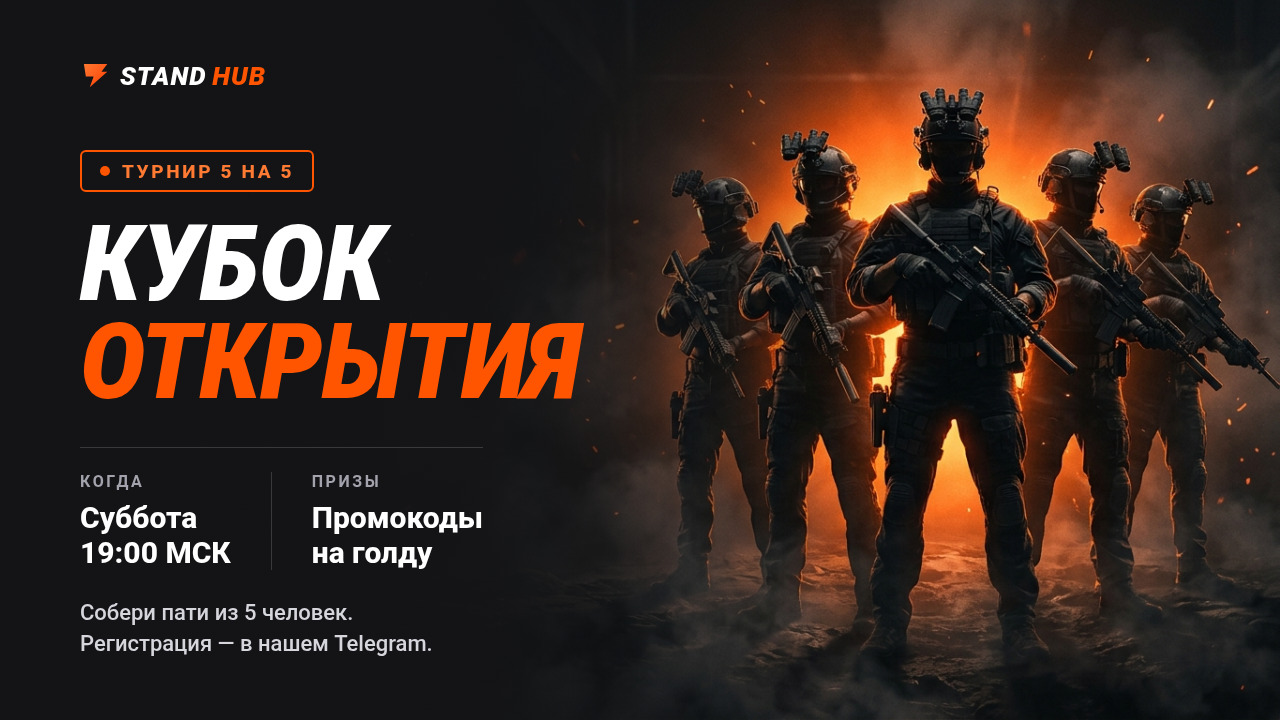
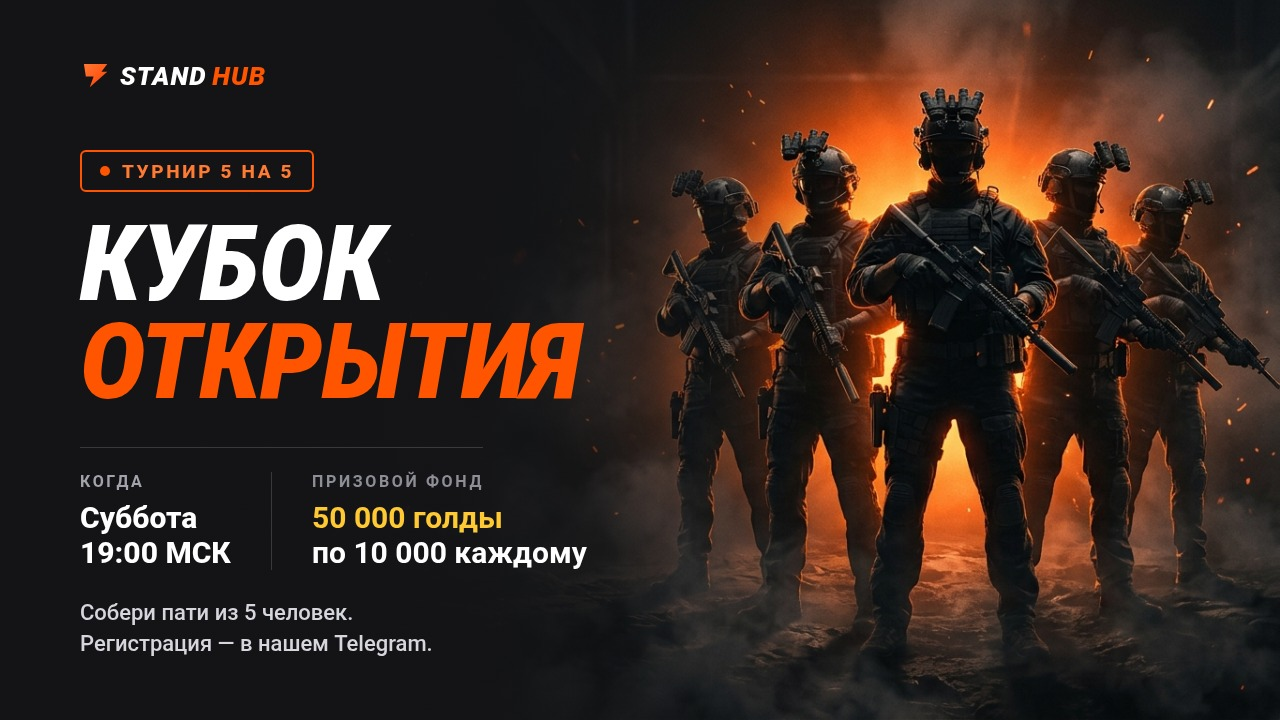
v1.11.2: призовой фонд турнира — 50 000 голды, по 10 000 каждому из команды-победителя: на плашке, в карточке «Кубки», в боте и анонсе; поле «Призовой фонд» в админке; картинка анонса с фондом

diff --git a/public/index.html b/public/index.html
@@ -685,6 +685,11 @@ body::after{width:520px;height:520px;left:140px;bottom:-220px;background:radial-
 .cup-my{display:flex;align-items:center;gap:8px;padding:10px 12px;border-radius:8px;background:rgba(63,207,106,.12);border:1px solid rgba(63,207,106,.4);font-size:14px}.cup-my .ic{color:var(--green);flex:none}
 .cup-bl{text-align:center;font-size:13px;color:var(--muted);text-decoration:underline}
 .cup-st{text-align:center;padding:10px 12px;border-radius:8px;background:rgba(255,77,77,.1);border:1px solid rgba(255,77,77,.35);font-weight:800;font-size:14px}
+.cup-r.has-f{min-width:340px}
+.cup-sts{display:grid;grid-template-columns:1fr 1fr;gap:10px}
+.cup-fund{border-color:rgba(255,200,0,.42);background:linear-gradient(180deg,rgba(255,200,0,.16),rgba(255,200,0,.05))}
+.cup-fund span{color:#e6c35c}.cup-fund b{color:var(--yellow);white-space:nowrap}.cup-fund small{font-size:14px;font-weight:800;color:#fff}
+.cup-win{color:#ffe08a}
 @media (max-width:760px){
  .cup{grid-template-columns:1fr;gap:14px;padding:18px 16px}
  .cup-ic{position:absolute;right:14px;top:14px;width:54px;height:54px;box-shadow:0 0 0 5px rgba(255,200,0,.12)}.cup-ic .ic{width:30px;height:30px}
@@ -693,6 +698,7 @@ body::after{width:520px;height:520px;left:140px;bottom:-220px;background:radial-
  .cup-b p{font-size:14px;margin-top:8px}
  .cup-r{min-width:0;gap:8px}
  .cup-cd{display:flex;align-items:baseline;justify-content:center;gap:10px;padding:7px 12px}.cup-cd b{font-size:20px}
+ .cup-r.has-f{min-width:0}.cup-sts{gap:8px}.cup-sts .cup-cd{display:block;padding:7px 8px}
  .cup-lob .cup-b p{display:none}
 }
 /* админка: турнир */
@@ -707,6 +713,7 @@ body::after{width:520px;height:520px;left:140px;bottom:-220px;background:radial-
 .adm-cfg input[type=date]:focus,.adm-cfg input[type=time]:focus,.adm-cfg input[type=password]:focus{border-color:var(--orange);outline:none;box-shadow:0 0 0 3px rgba(255,85,0,.15)}
 .adm-cfg label.w2{flex:1 1 260px}.adm-cfg label.w3{flex:1 1 100%}.adm-cfg label.w2 input,.adm-cfg label.w3 input{width:100%}
 .adm-sub2{font-size:13px;text-transform:uppercase;font-weight:800;color:var(--muted);letter-spacing:.04em;margin:4px 0 -6px}
+.adm-fh{margin-top:-6px;font-size:13px;color:var(--muted)}.adm-fh b{color:var(--yellow)}.adm-fh .ic{width:16px;height:16px;vertical-align:-3px;margin-right:6px;color:var(--yellow)}
 .adm-cupb{display:flex;gap:10px;flex-wrap:wrap}.adm-cupb .ic{width:16px;height:16px}
 .adm-pic{display:flex;gap:16px;align-items:center;padding:12px;border:1px solid var(--line);border-radius:10px;background:var(--bg2)}
 .adm-pim{flex:none;display:block;width:220px;border-radius:8px;overflow:hidden;border:1px solid var(--line)}.adm-pim img{display:block;width:100%;aspect-ratio:16/9;object-fit:cover;background:#111}
@@ -1041,7 +1048,7 @@ function toast(t){const e=document.getElementById("toast");e.textContent=t;e.cla
 function needAuth(){if(!S.user){location.hash="#/login";toast("Войдите, чтобы продолжить");return true}return false}
 function empty(title,text,btn){return `<div class="empty"><div class="empty-ic">${ic("crown")}</div><b>${title}</b><p class="muted">${text}</p>${btn||""}</div>`}
 /* ===== Анимации ===== */
-const APP_V="1.11.1";
+const APP_V="1.11.2";
 // анимации включены всегда; выключить можно кнопкой «Анимации» (меню слева / низ главной)
 const RM=()=>document.documentElement.classList.contains("no-motion");
 function paintMotion(){document.querySelectorAll("[data-motion] b").forEach(b=>b.textContent=RM()?"выкл":"вкл")}
@@ -1938,21 +1945,28 @@ function cupBanner(){const c=S.cup,ph=cupPh();if(ph==="off")return "";const link
    :ph==="open"?(link?`<a class="btn btn-o btn-lg cup-btn" href="${link}" target="_blank" rel="noopener">${ic("tg")}Регистрация в Telegram</a>`:`<span class="btn btn-g btn-lg cup-btn" aria-disabled="true">Регистрация скоро</span>`)
    :live?(c.channel?`<a class="btn btn-o btn-lg cup-btn" href="https://t.me/${encodeURIComponent(c.channel)}" target="_blank" rel="noopener">${ic("tg")}Следить в Telegram</a>`:"")
    :`<span class="cup-st">${ph==="full"?"Все места заняты":"Регистрация закрыта"}</span>`;
+  const cd=live?`<div class="cup-cd"><span>Статус</span><b>Турнир идёт</b></div>`:`<div class="cup-cd"><span>До старта</span><b data-cd="${c.start}">${cdStr(c.start-Date.now()-S.skew)}</b></div>`;
+  const fund=c.fund>0?`<div class="cup-cd cup-fund"><span>Призовой фонд</span><b>${fmt(c.fund)}<small> голды</small></b></div>`:"";
   return `<section class="card cup${live?" live":""}" aria-label="Турнир ${esc(c.title)}"><div class="cup-ic">${ic("trophy")}</div>
    <div class="cup-b">${live?`<span class="tag live">Идёт сейчас</span>`:`<span class="tag">Турнир · 5 на 5</span>`}<h2>${esc(c.title)}</h2>
-    <div class="cup-i"><span>${ic("cal")}${esc(mskWhen(c.start))}</span><span>${ic("gift")}Призы — ${esc(lc1(c.prize))}</span>${c.left!=null&&ph==="open"?`<span class="cup-left">Осталось ${c.left} ${plr(c.left,"место","места","мест")}</span>`:""}</div>
+    <div class="cup-i"><span>${ic("cal")}${esc(mskWhen(c.start))}</span>${cupPrizes(c)}${c.left!=null&&ph==="open"?`<span class="cup-left">Осталось ${c.left} ${plr(c.left,"место","места","мест")}</span>`:""}</div>
     <p>${esc(c.desc)}</p></div>
-   <div class="cup-r">${live?`<div class="cup-cd"><span>Статус</span><b>Турнир идёт</b></div>`:`<div class="cup-cd"><span>До старта</span><b data-cd="${c.start}">${cdStr(c.start-Date.now()-S.skew)}</b></div>`}${act}</div></section>`}
+   <div class="cup-r${fund?" has-f":""}">${fund?`<div class="cup-sts">${fund}${cd}</div>`:cd}${act}</div></section>`}
+// призы на плашке: доля каждого победителя из призового фонда и «другие призы»
+function cupPrizes(c){const o=[];if(c.fund>0)o.push(`<span class="cup-win">${ic("crown")}Победителям — по ${fmt(c.share)} голды каждому</span>`);
+  if(c.prize)o.push(`<span>${ic("gift")}${c.fund>0?"Также: ":"Призы — "}${esc(lc1(c.prize))}</span>`);return o.join("")}
 // карточка «Кубки» на главной: пока турнира нет — «Скоро»
 function cupCardIn(){const c=S.cup,ph=cupPh(),link=cupLink();
   if(ph==="off")return `<span class="tag">Скоро</span><h3>Кубки</h3><p class="muted">Ежедневные и еженедельные кубки по расписанию с наградами за места.</p><span class="btn btn-g">Скоро</span>`;
   const b=c.my?`<span class="btn btn-g">Вы участвуете</span>`:ph==="open"&&link?`<a class="btn btn-o" href="${link}" target="_blank" rel="noopener">Участвовать</a>`:`<span class="btn btn-g">${ph==="live"?"Идёт сейчас":ph==="full"?"Мест нет":ph==="open"?"Регистрация скоро":"Регистрация закрыта"}</span>`;
-  return `<span class="tag live">${ph==="live"?"Идёт сейчас":ph==="open"?"Регистрация":"Скоро старт"}</span><h3>Кубки</h3><p class="muted">${esc(c.title)} — ${esc(mskWhen(c.start,true))}. Турнир 5 на 5, призы — ${esc(lc1(c.prize))}.</p>${b}`}
+  return `<span class="tag live">${ph==="live"?"Идёт сейчас":ph==="open"?"Регистрация":"Скоро старт"}</span><h3>Кубки</h3><p class="muted">${esc(c.title)} — ${esc(mskWhen(c.start,true))}. Турнир 5 на 5, ${c.fund>0?`призовой фонд — ${fmt(c.fund)} голды`:`призы — ${esc(lc1(c.prize))}`}.</p>${b}`}
 function paintCup(){document.querySelectorAll("[data-cupb]").forEach(el=>{const h=cupBanner();if(el._h!==h){el._h=h;el.innerHTML=h}});document.querySelectorAll("[data-cupc]").forEach(el=>{const h=cupCardIn();if(el._h!==h){el._h=h;el.innerHTML=h}})}
 
 /* ===== Админка: турнир ===== */
 function mskParts(t){const d=new Date(t+MSK_OFF);return [`${d.getUTCFullYear()}-${p2(d.getUTCMonth()+1)}-${p2(d.getUTCDate())}`,`${p2(d.getUTCHours())}:${p2(d.getUTCMinutes())}`]}
 function mskTs(dt,tm){const a=/^(\d{4})-(\d{2})-(\d{2})$/.exec(dt||""),b=/^(\d{1,2}):(\d{2})/.exec(tm||"");return a&&b?Date.UTC(+a[1],+a[2]-1,+a[3],+b[1],+b[2])-MSK_OFF:NaN}
+// подсказка под призовым фондом: сколько получит каждый из команды-победителя
+function fundHint(f,t=5){return f>0?`${ic("crown")}Весь фонд забирает команда-победитель — по <b>${fmt(Math.floor(f/t))} голды</b> каждому из ${t} игроков`:`Без призового фонда — на сайте и в Telegram будут только «Другие призы»`}
 const PH_T={open:"Регистрация открыта",closed:"Регистрация закрыта",full:"Все места заняты",live:"Турнир идёт",off:"Плашка скрыта"};
 async function admCup(){const el=document.getElementById("adm");if(!el)return;
   try{paintAdmCup(await api("/api/admin/cup"))}catch(e){el.innerHTML=`<div class="card">${empty("Не удалось загрузить турнир",esc(e.message))}</div>`}}
@@ -1999,8 +2013,10 @@ function paintAdmCup(d){const el=document.getElementById("adm");if(!el)return;S.
     <div class="adm-cfg"><label class="w2">Название<input type="text" data-c="title" maxlength="40" value="${esc(c.title)}"></label>
      <label>Дата старта<input type="date" data-c="date" value="${dd}"></label><label>Время, МСК<input type="time" data-c="time" value="${tt}"></label>
      <label>Мест, команд<input type="number" inputmode="numeric" min="2" max="256" step="1" data-c="max" value="${c.max}"></label>
-     <label class="w2">Призы<input type="text" data-c="prize" maxlength="80" value="${esc(c.prize)}"></label>
      <label class="w3">Описание<input type="text" data-c="desc" maxlength="200" value="${esc(c.desc)}"></label></div>
+    <div class="adm-cfg"><label>Призовой фонд, голды<input type="number" inputmode="numeric" min="0" max="10000000" step="1000" data-c="fund" value="${c.fund||0}"></label>
+     <label class="w2">Другие призы — необязательно<input type="text" data-c="prize" maxlength="80" value="${esc(c.prize)}" placeholder="Например: 2-е место — 5 000 голды"></label></div>
+    <p class="adm-fh" data-cfh>${fundHint(c.fund,d.team)}</p>
     <h4 class="adm-sub2">Telegram-канал для анонсов</h4>
     <p class="muted" style="font-size:13px;margin:0">${d.bot?`Добавьте <b style="color:#fff">@${esc(d.bot)}</b> в администраторы канала с правом «Публикация сообщений» — кнопкой ниже или вручную: канал → «Администраторы» → «Добавить администратора». Кнопка «Опубликовать анонс» отправит в канал пост о турнире с картинкой и кнопкой регистрации.`:"Сначала подключите бота регистрации — он будет публиковать посты в канал."}</p>
     ${d.bot?`<div class="adm-cupb"><a class="btn btn-g btn-sm" href="https://t.me/${encodeURIComponent(d.bot)}?startchannel&admin=post_messages" target="_blank" rel="noopener" data-caddch>${ic("tg")}Добавить бота в канал</a></div>`:""}
@@ -2014,7 +2030,8 @@ function paintAdmCup(d){const el=document.getElementById("adm");if(!el)return;S.
   const g=k=>el.querySelector(`[data-c="${k}"]`);
   const on=el.querySelector("[data-cbon]");if(on)on.onclick=e=>{const v=el.querySelector("#cupTok").value.trim();if(!v){toast("Вставьте токен от @BotFather");return}cupPost({act:"bot",token:v},e.currentTarget,r=>"Бот подключён: @"+r.bot,true)};
   const off=el.querySelector("[data-cboff]");if(off)off.onclick=e=>{if(!confirm("Отключить бота регистрации? Кнопка «Регистрация в Telegram» на плашке перестанет работать."))return;cupPost({act:"botOff"},e.currentTarget,()=>"Бот отключён",true)};
-  el.querySelector("[data-csave]").onclick=e=>cupPost({act:"cfg",on:g("on").checked,reg:g("reg").checked,title:g("title").value,start:mskTs(g("date").value,g("time").value),max:Number(g("max").value),prize:g("prize").value,desc:g("desc").value,channel:g("channel").value,chNew:g("chNew").checked,pic:g("pic").checked},e.currentTarget,()=>"Сохранено",true);
+  g("fund").oninput=()=>{el.querySelector("[data-cfh]").innerHTML=fundHint(Number(g("fund").value)||0,d.team)};
+  el.querySelector("[data-csave]").onclick=e=>cupPost({act:"cfg",on:g("on").checked,reg:g("reg").checked,title:g("title").value,start:mskTs(g("date").value,g("time").value),max:Number(g("max").value),fund:g("fund").value===""?0:Number(g("fund").value),prize:g("prize").value,desc:g("desc").value,channel:g("channel").value,chNew:g("chNew").checked,pic:g("pic").checked},e.currentTarget,()=>"Сохранено",true);
   el.querySelector("[data-cpost]").onclick=e=>cupPost({act:"post",channel:g("channel").value},e.currentTarget,r=>"Анонс опубликован в "+r.channel+(r.noPic?" — без картинки: Telegram её не принял":""));
   el.querySelector("[data-ccopy]").onclick=()=>copyTxt(cupListTxt(S.admCup),"Список команд скопирован");
   el.querySelector("[data-cclear]").onclick=e=>{const n=S.admCup.teams.length;if(!confirm(`Удалить все команды (${n}) из списка? Игрокам ничего не придёт — обычно это нужно перед новым турниром.`))return;cupPost({act:"clear"},e.currentTarget,r=>`Список очищен (${r.n})`)};

diff --git a/cup.js b/cup.js
@@ -18,6 +18,8 @@ const pad = n => String(n).padStart(2, '0');
 const clean = s => String(s == null ? '' : s).replace(/\s+/g, ' ').trim();
 const lc = s => (/^[А-ЯЁA-Z][а-яёa-z]/.test(s) ? s[0].toLowerCase() + s.slice(1) : s); // «Промокоды…» → «промокоды…» посреди фразы
 const dot = s => (/[.!?…]$/.test(s) ? s : s + '.');
+const num = n => String(n).replace(/\B(?=(\d{3})+(?!\d))/g, '\u00a0'); // 50000 → «50 000» (неразрывный пробел)
+const FUND_MAX = 10000000;
 const plural = (n, a, b, c) => { const m = n % 10, h = n % 100; return m === 1 && h !== 11 ? a : m >= 2 && m <= 4 && (h < 12 || h > 14) ? b : c; };
 // ближайшая суббота, 19:00 по Москве
 function nextSat(now = Date.now()) {
@@ -40,7 +42,7 @@ const cleanCh = s => {
 const sleep = ms => new Promise(r => setTimeout(r, ms));
 const fs = require('fs'), path = require('path');
 // картинка анонса по умолчанию — «Кубок открытия» 1280×720; админ может загрузить свою
-const DEF_IMG = path.join(__dirname, 'assets', 'cup-open.jpg'), DEF_V = 'd1';
+const DEF_IMG = path.join(__dirname, 'assets', 'cup-open.jpg'), DEF_V = 'd2';
 let defBuf = null;
 const defImg = () => { if (!defBuf) { try { defBuf = fs.readFileSync(DEF_IMG); } catch { defBuf = Buffer.alloc(0); } } return defBuf; };
 // ошибки доступа к каналу — с ними картинку не обойти, публиковать текстом бесполезно
@@ -48,10 +50,19 @@ const ACCESS_ERR = /chat not found|rights|not a member|forbidden|administrator|a
 
 module.exports = function ({ db, save, sendTo, sendAll, tell, alertAdmins, escH, siteUrl, partyOf, mainBot = () => null, envToken = '', mainToken = '' }) {
   const C = db.cup = db.cup || {};
-  C.cfg = { on: true, reg: true, title: 'Кубок открытия', start: nextSat(), prize: 'Промокоды на голду', desc: 'Собери пати из пяти человек, регистрация в нашем Telegram', max: 16, channel: '', chNew: false, pic: true, ...(C.cfg || {}) };
+  const was = C.cfg;
+  // fund — призовой фонд в голде: его забирает команда-победитель, каждому из пятерых — fund / 5; prize — другие призы (необязательно)
+  C.cfg = { on: true, reg: true, title: 'Кубок открытия', start: nextSat(), fund: 50000, prize: '', desc: 'Собери пати из пяти человек, регистрация в нашем Telegram', max: 16, channel: '', chNew: false, pic: true, ...(C.cfg || {}) };
+  // v1.11.2: вместо «Промокоды на голду» — призовой фонд 50 000 голды (по 10 000 каждому из победителей)
+  if (was && was.fund === undefined && was.prize === 'Промокоды на голду') C.cfg.prize = '';
   C.teams = C.teams || [];
   C.seq = Math.max(C.seq || 0, ...C.teams.map(t => t.n || 0));
   const cfg = C.cfg;
+  const share = () => Math.floor(cfg.fund / TEAM);
+  // призы для Telegram: фонд и доля каждого победителя, плюс другие призы, если есть
+  const prizeTg = () => cfg.fund > 0
+    ? `💰 Призовой фонд: <b>${num(cfg.fund)} голды</b>\n🥇 Всё забирает команда-победитель — по ${num(share())} голды каждому игроку${cfg.prize ? `\n🎁 Также: ${escH(lc(cfg.prize))}` : ''}`
+    : `🎁 Призы: ${escH(lc(cfg.prize))}`;
   const user = id => db.users.find(u => u.id === id);
   const nick = id => (user(id) || { nick: '?' }).nick;
   const teamOf = uid => C.teams.find(t => t.members.includes(uid)) || null;
@@ -126,7 +137,7 @@ module.exports = function ({ db, save, sendTo, sendAll, tell, alertAdmins, escH,
   // ---------- состояние для сайта ----------
   const pubState = () => {
     const ph = phase(), left = cfg.max - C.teams.length;
-    return { type: 'cup', phase: ph, title: cfg.title, start: cfg.start, until: cfg.start + SHOW_AFTER, prize: cfg.prize, desc: cfg.desc, max: cfg.max,
+    return { type: 'cup', phase: ph, title: cfg.title, start: cfg.start, until: cfg.start + SHOW_AFTER, fund: cfg.fund, share: share(), prize: cfg.prize, desc: cfg.desc, max: cfg.max,
       left: ph === 'open' && left <= 3 ? left : null, bot, channel: cfg.channel && cfg.channel[0] === '@' ? cfg.channel.slice(1) : null };
   };
   const state = uid => { const t = uid ? teamOf(uid) : null; return { ...pubState(), my: t ? { name: t.name, cap: nick(t.cap), isCap: t.cap === uid, members: t.members.map(nick) } : null }; };
@@ -139,7 +150,7 @@ module.exports = function ({ db, save, sendTo, sendAll, tell, alertAdmins, escH,
     const ph = phase(), left = cfg.max - C.teams.length;
     const st = ph === 'open' ? `✅ Регистрация открыта${left <= 3 ? ` — осталось ${left} ${plural(left, 'место', 'места', 'мест')}` : ''}`
       : ph === 'full' ? '⛔ Все места уже заняты' : ph === 'closed' ? '⛔ Регистрация закрыта' : ph === 'live' ? '🔥 Турнир уже идёт' : '⛔ Сейчас турниров нет — следите за новостями';
-    return `🏆 <b>${escH(cfg.title)}</b> — турнир 5 на 5 в StandLeo\n\n📅 ${when(cfg.start)}\n🎁 Призы: ${escH(lc(cfg.prize))}\n👥 Мест: ${cfg.max} ${plural(cfg.max, 'команда', 'команды', 'команд')}\n\n${escH(dot(cfg.desc))}\n\n`
+    return `🏆 <b>${escH(cfg.title)}</b> — турнир 5 на 5 в StandLeo\n\n📅 ${when(cfg.start)}\n${prizeTg()}\n👥 Мест: ${cfg.max} ${plural(cfg.max, 'команда', 'команды', 'команд')}\n\n${escH(dot(cfg.desc))}\n\n`
       + `<b>Как зарегистрироваться</b>\n1. У каждого из пятерых — аккаунт на ${siteA('/#/register')}, подтверждённый в ${vb()}\n2. Капитан собирает на сайте пати из 5 человек: «Играть» → «Пригласить» (звать можно друзей с сайта)\n3. Капитан нажимает здесь «${B_REG}» и пишет название команды\n\n${st}`;
   };
   const info = chat => say(chat, infoText(), { reply_markup: KB });
@@ -236,7 +247,7 @@ module.exports = function ({ db, save, sendTo, sendAll, tell, alertAdmins, escH,
 
   // ---------- канал: анонс и новые команды ----------
   const regKb = () => ({ inline_keyboard: [[{ text: '📝 Зарегистрировать команду', url: `https://t.me/${bot}?start=cup` }], [{ text: '🌐 Сайт StandHub', url: siteUrl }]] });
-  const annText = () => `🏆 <b>${escH(cfg.title.toUpperCase())}</b>\nТурнир 5 на 5 в StandLeo\n\n📅 ${when(cfg.start)}\n🎁 Призы: ${escH(lc(cfg.prize))}\n👥 Мест: ${cfg.max} ${plural(cfg.max, 'команда', 'команды', 'команд')}\n\n${escH(dot(cfg.desc))}\n\n👇 Регистрация — по кнопке ниже`;
+  const annText = () => `🏆 <b>${escH(cfg.title.toUpperCase())}</b>\nТурнир 5 на 5 в StandLeo\n\n📅 ${when(cfg.start)}\n${prizeTg()}\n👥 Мест: ${cfg.max} ${plural(cfg.max, 'команда', 'команды', 'команд')}\n\n${escH(dot(cfg.desc))}\n\n👇 Регистрация — по кнопке ниже`;
   const tgErr = r => {
     const d = String((r && r.description) || '');
     if (/chat not found/i.test(d)) return 'Канал не найден. Проверьте адрес — например, @standhub';
@@ -263,20 +274,23 @@ module.exports = function ({ db, save, sendTo, sendAll, tell, alertAdmins, escH,
 
   // ---------- админка ----------
   const adminState = () => ({
-    cfg: { ...cfg }, phase: phase(), bot, botErr, env: !C.token && !!envToken, main: mainBot(), img: (({ v, custom }) => ({ v, custom }))(img()),
+    cfg: { ...cfg }, team: TEAM, phase: phase(), bot, botErr, env: !C.token && !!envToken, main: mainBot(), img: (({ v, custom }) => ({ v, custom }))(img()),
     teams: C.teams.slice().sort((a, b) => a.n - b.n).map(t => ({ id: t.id, n: t.n, name: t.name, at: t.at, cap: nick(t.cap),
       members: t.members.map(id => { const u = user(id) || {}; return { nick: u.nick || '?', soid: u.soid || '', elo: u.elo || 0, tg: u.tgUser || null, cap: id === t.cap }; }) })),
   });
   function setCfg(b) {
     const title = clean(b.title), prize = clean(b.prize), desc = clean(b.desc), start = Number(b.start), max = Number(b.max), ch = cleanCh(b.channel);
+    const fund = b.fund == null ? cfg.fund : b.fund === '' ? 0 : Number(b.fund); // старая вкладка без этого поля — фонд не трогаем
     if (title.length < 2 || title.length > 40) return { error: 'Название — от 2 до 40 символов' };
     if (!Number.isFinite(start) || start < Date.now() - 30 * DAY || start > Date.now() + 365 * DAY) return { error: 'Укажите дату и время старта' };
-    if (!prize || prize.length > 80) return { error: 'Призы — от 1 до 80 символов' };
+    if (!Number.isInteger(fund) || fund < 0 || fund > FUND_MAX) return { error: `Призовой фонд — целое число голды от 0 до ${num(FUND_MAX)}` };
+    if (prize.length > 80) return { error: 'Другие призы — до 80 символов' };
+    if (!fund && !prize) return { error: 'Укажите призовой фонд или напишите призы' };
     if (!desc || desc.length > 200) return { error: 'Описание — от 1 до 200 символов' };
     if (!Number.isInteger(max) || max < 2 || max > 256) return { error: 'Мест — от 2 до 256 команд' };
     if (ch === null) return { error: 'Канал — в виде @название или ссылка t.me/название' };
     if (start !== cfg.start) C.reminded = 0;
-    Object.assign(cfg, { title, start, prize, desc, max, on: !!b.on, reg: !!b.reg, channel: ch, chNew: !!b.chNew, pic: b.pic === undefined ? cfg.pic : !!b.pic });
+    Object.assign(cfg, { title, start, fund, prize, desc, max, on: !!b.on, reg: !!b.reg, channel: ch, chNew: !!b.chNew, pic: b.pic === undefined ? cfg.pic : !!b.pic });
     save(); push(); return { ok: true };
   }
   async function setBot(raw) {
